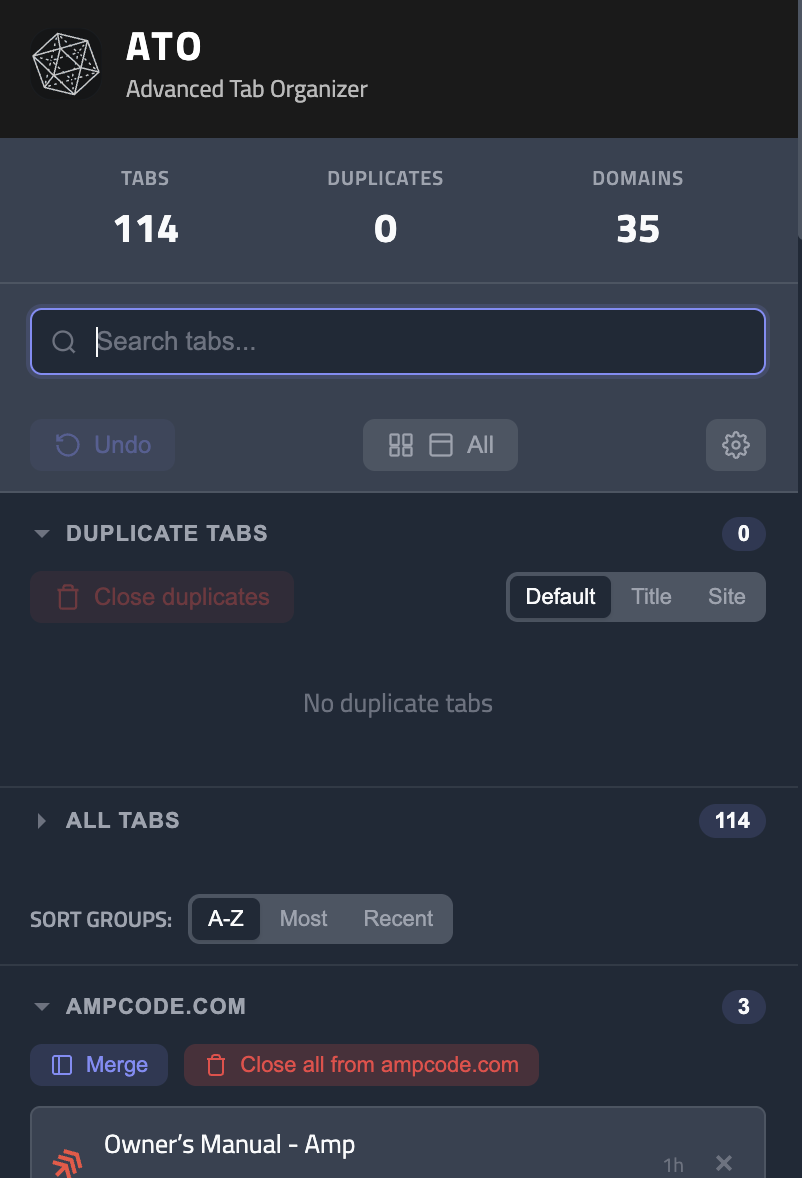
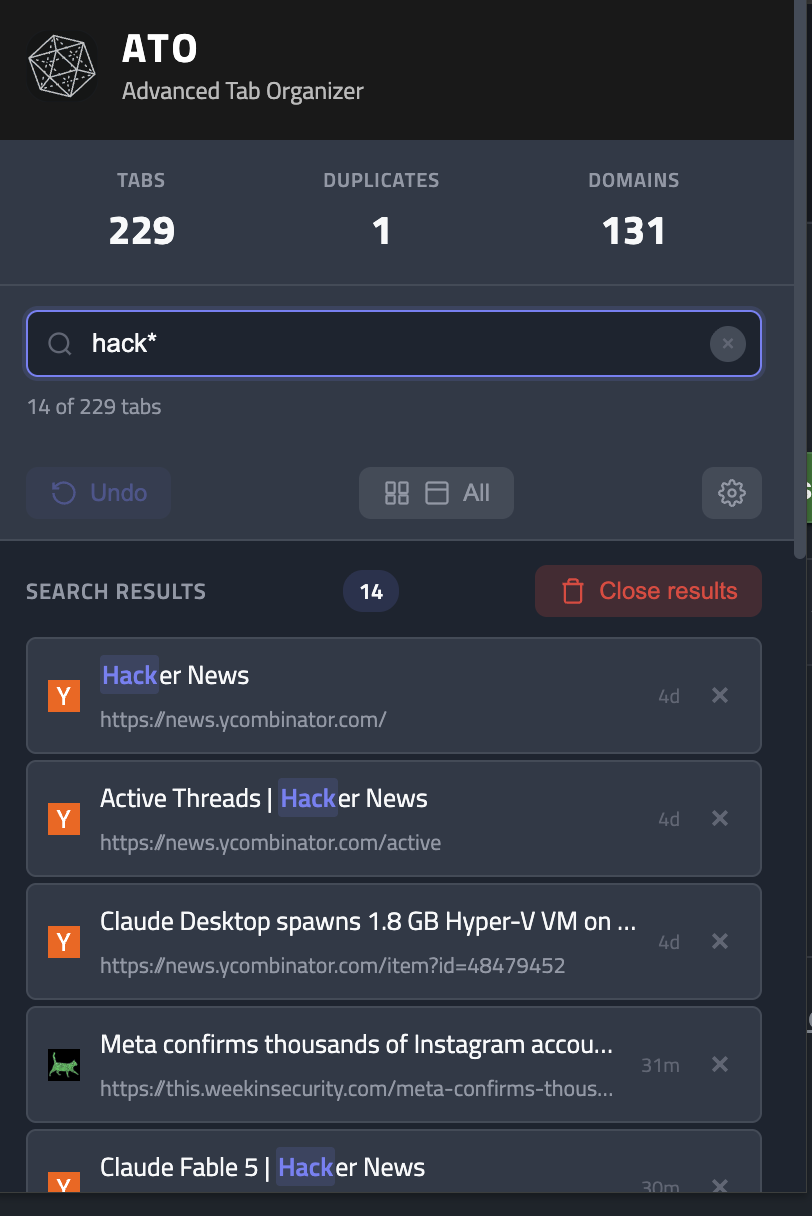
docs: update README for wildcard search, refresh hero screenshot

diff --git a/README.md b/README.md
@@ -3,7 +3,7 @@
 Kill duplicate tabs instantly. Stay focused.
 
 <p align="center">
-  <img src="docs/screenshots/popup.png" alt="ATO popup showing tab stats, search, duplicates section, and domain-grouped tab list" width="420">
+  <img src="docs/screenshots/popup.png" alt="ATO popup showing a wildcard search for hack* with matched text highlighted across the result list, above stats for tabs, duplicates, and domains" width="420">
 </p>
 
 ## What It Does
@@ -11,7 +11,7 @@ Kill duplicate tabs instantly. Stay focused.
 - **Badge Counter** - Shows how many duplicate tabs you have
 - **One-Click Cleanup** - Close all duplicates with one button
 - **Playing Media** - Tabs producing sound are grouped in a section on top, and flagged with a speaker icon wherever they're listed
-- **Search** - Filter open tabs by title or URL with keyboard navigation
+- **Search** - Filter tabs by title, URL, or domain with keyboard navigation. Three modes: fuzzy (default), exact whole-word (`"word"`), and wildcard substring (`word*`)
 - **Domain Groups** - Tabs grouped by site, sortable A-Z / Most / Recent
 - **Merge & Close per Domain** - Consolidate or clear all tabs from a site
 - **Undo** - Restore tabs you just closed
@@ -21,10 +21,10 @@ Kill duplicate tabs instantly. Stay focused.
 ## Screenshots
 
 <p align="center">
-  <img src="docs/screenshots/popup.png" alt="Popup overview with stats, search, view toggle, duplicates section, and domain groups" width="420">
+  <img src="docs/screenshots/popup.png" alt="Popup showing a wildcard search for hack* with matched text highlighted across the result list" width="420">
 </p>
 
-Stats header (tabs / duplicates / domains), search bar, view toggle, duplicates section with sort options, and domain-grouped tab list with per-domain Merge and Close actions.
+Wildcard search (`hack*`) matching the literal substring across titles and URLs, with matches highlighted. Above it: the stats header (tabs / duplicates / domains), search bar with live result count, view toggle, and Undo. Search also supports fuzzy (default) and exact whole-word (`"word"`) modes.
 
 ## Installation
 